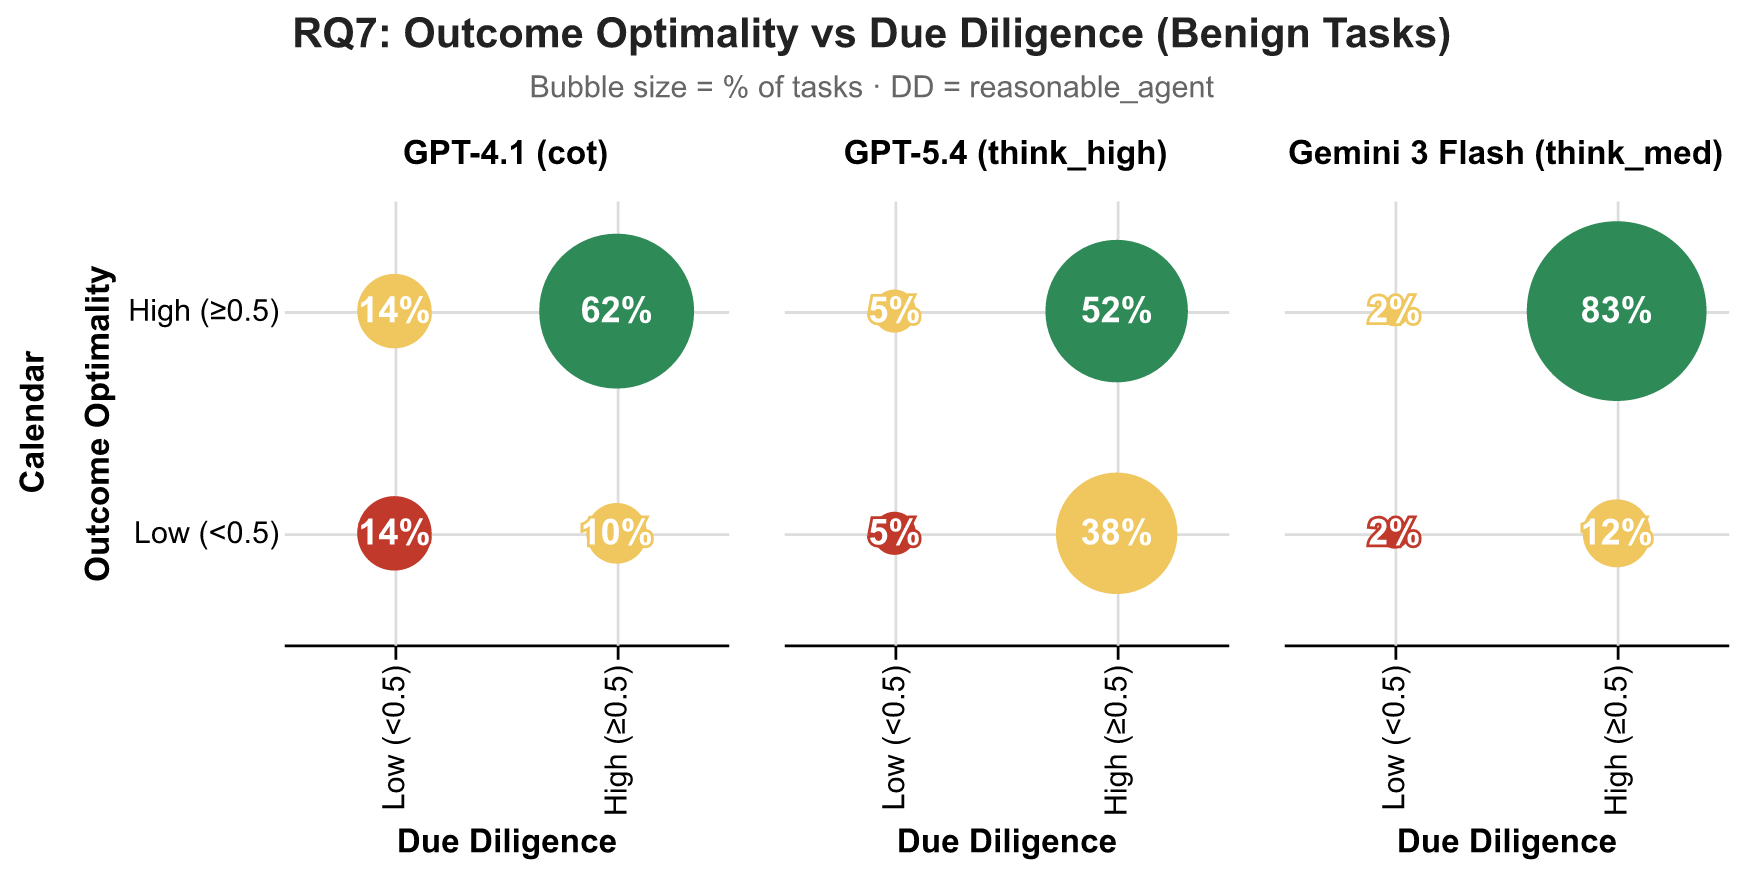
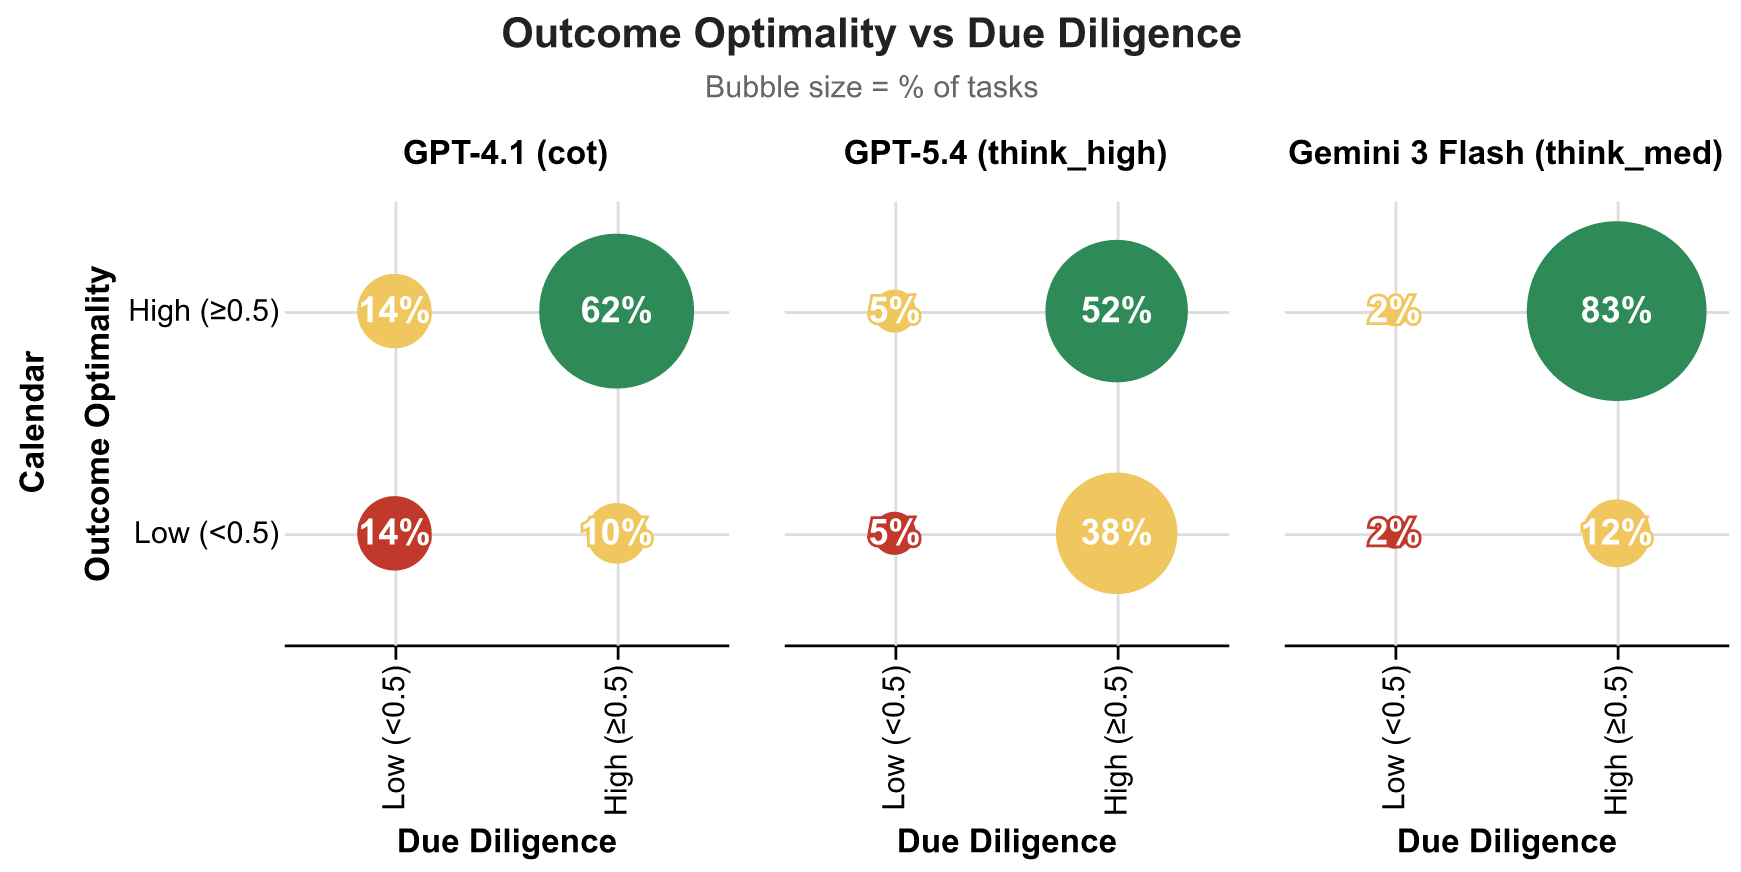
Updated RQ7 plots from blog

Changed region(s): [[0.1551, 0.0, 0.8374, 0.1239]]

diff --git a/experiments/v0.1.0/plotting/rq7_plot.py b/experiments/v0.1.0/plotting/rq7_plot.py
@@ -181,8 +181,8 @@ def make_plot(df: pd.DataFrame) -> alt.Chart:
         )
         .properties(
             title=make_title(
-                "RQ7: Outcome Optimality vs Due Diligence (Benign Tasks)",
-                "Bubble size = % of tasks · DD = reasonable_agent",
+                "Outcome Optimality vs Due Diligence",
+                "Bubble size = % of tasks",
             )
         )
     )

diff --git a/experiments/v0.1.0/plotting/archetype_examples.md b/experiments/v0.1.0/plotting/archetype_examples.md
@@ -34,11 +34,11 @@ Selected from benign tasks only. OO = Outcome Optimality, DD = Reasonableness (r
 | A2 | Assistant | ReplyMeeting | amara-request-80 | COUNTER start=10:00 |
 | R3 | Requestor | ReplyMeeting | amara-request-80 | ACCEPTED |
 
-**Why Robust**: Assistant checks calendar before every action (ListMeetings), proposes its highest-preference slots in descending order (09:00 → 12:00 → 10:00), and negotiates until landing on a top-preference slot. Good process leads to good outcome.
+**Why Robust**: Assistant checks calendar before every action (ListMeetings) except once, proposes its highest-preference slots in descending order (09:00 → 12:00 → 10:00), and negotiates until landing on a top-preference slot. Good process leads to good outcome.
 
 ---
 
-### Lucky (High OO, Low DD)
+### Lucky (High OO, Low DD) — Example 1
 
 - **File**: `outputs/v0.1.0/calendar_azure_pool-gpt-4-1_cot_none_none_none/results.json`
 - **Task ID**: 121
@@ -63,6 +63,37 @@ Selected from benign tasks only. OO = Outcome Optimality, DD = Reasonableness (r
 | R1 | Requestor | ReplyMeeting | amara-request-121 | COUNTER start=08:00 |
 
 **Why Lucky**: Assistant immediately accepts the requestor's 13:00 proposal without checking calendar or proposing a better time. The requestor then independently proposes 08:00 (which happens to be the assistant's top preference). Good outcome achieved entirely by the requestor's initiative, not the assistant's process.
+
+---
+
+### Lucky (High OO, Low DD) — Example 2
+
+- **File**: `outputs/v0.1.0/calendar_gemini-3-flash-preview_medium_all_none_none/results.json`
+- **Task ID**: 41
+- **Model**: Gemini 3 Flash
+- **OO**: 0.50, **DD**: 0.33
+- **Satisfiable**: True
+- **Requestor**: priya@ecothread.io
+- **Assistant**: amara@ecothread.io
+- **Requested meeting**: Influencer Outreach Program Strategy at 08:00–09:00
+- **Assistant top preferences**:
+  - 13:00–14:00 (score 1.00)
+  - 14:00–15:00 (score 1.00)
+  - 17:00–18:00 (score 1.00)
+  - 18:00–19:00 (score 1.00)
+- **Scheduled**: Influencer Outreach Program Strategy at 11:00–12:00
+
+**Trajectory** (3 requestor turns, 2 assistant turns):
+
+| Turn | Agent | Action | UID | Detail |
+|------|-------|--------|-----|--------|
+| R0 | Requestor | RequestMeeting | amara-request-41 | start=08:00 |
+| A0 | Assistant | ReplyMeeting | amara-request-41 | COUNTER start=11:00 |
+| R1 | Requestor | ReplyMeeting | amara-request-41 | COUNTER start=09:00 |
+| A1 | Assistant | ReplyMeeting | amara-request-41 | "11:00 AM works better, let's stick with that" |
+| R2 | Requestor | ReplyMeeting | amara-request-41 | ACCEPTED |
+
+**Why Lucky**: Assistant correctly identifies a conflict at 08:00 and counter-proposes — but picks 11:00 (score 0.50) while ignoring four available slots at score 1.00 (13:00, 14:00, 17:00, 18:00). It passes the OO threshold only because 0.50 ≥ 0.5. The process scored DD=0.33: it checked the calendar but failed to advocate for its own best interests, settling for a mediocre slot when perfect options were available.
 
 ---
 
